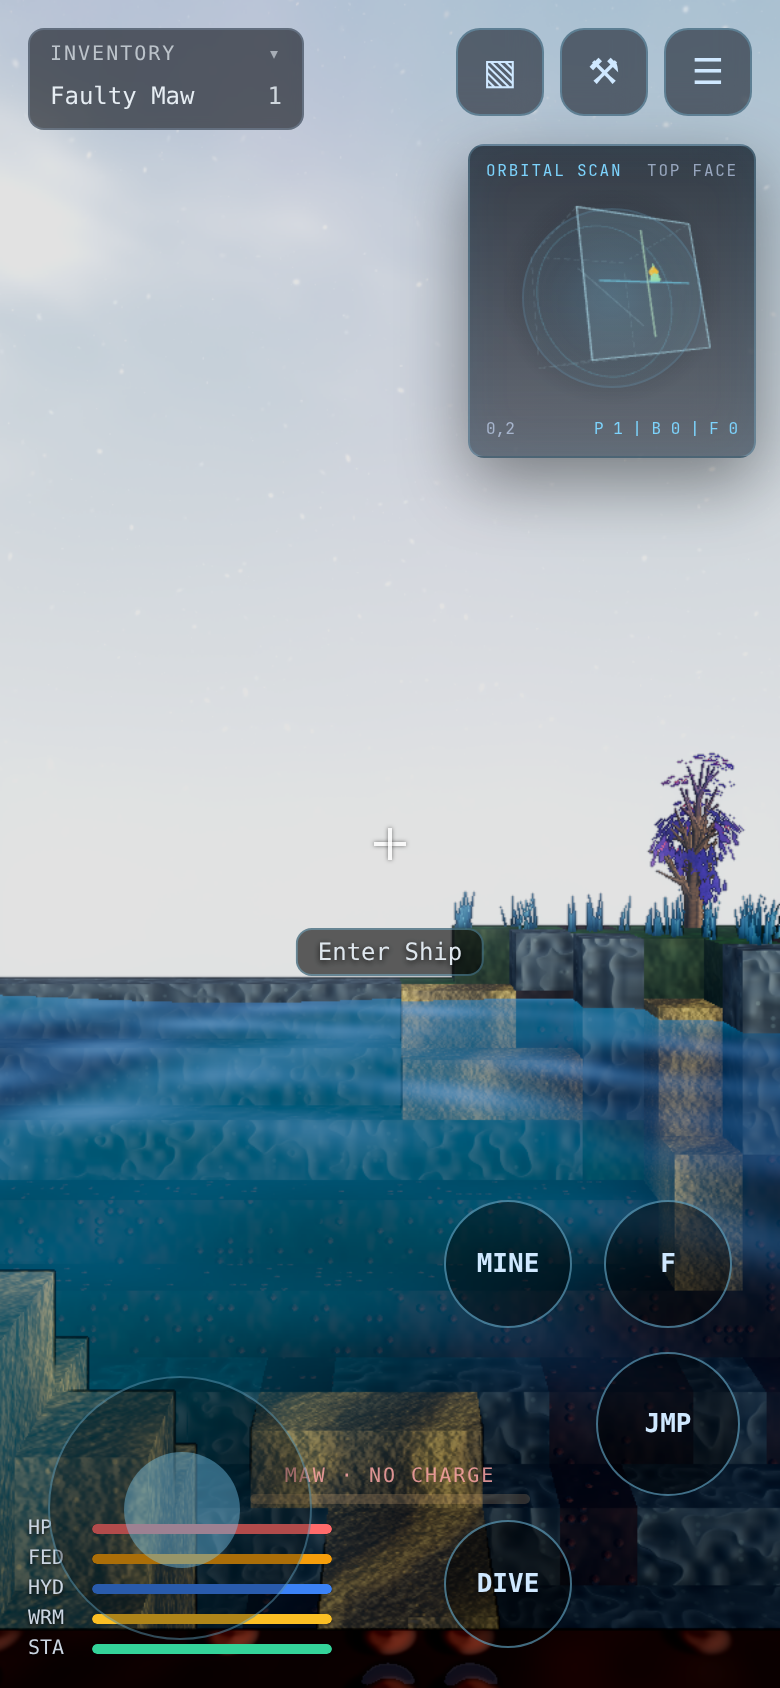
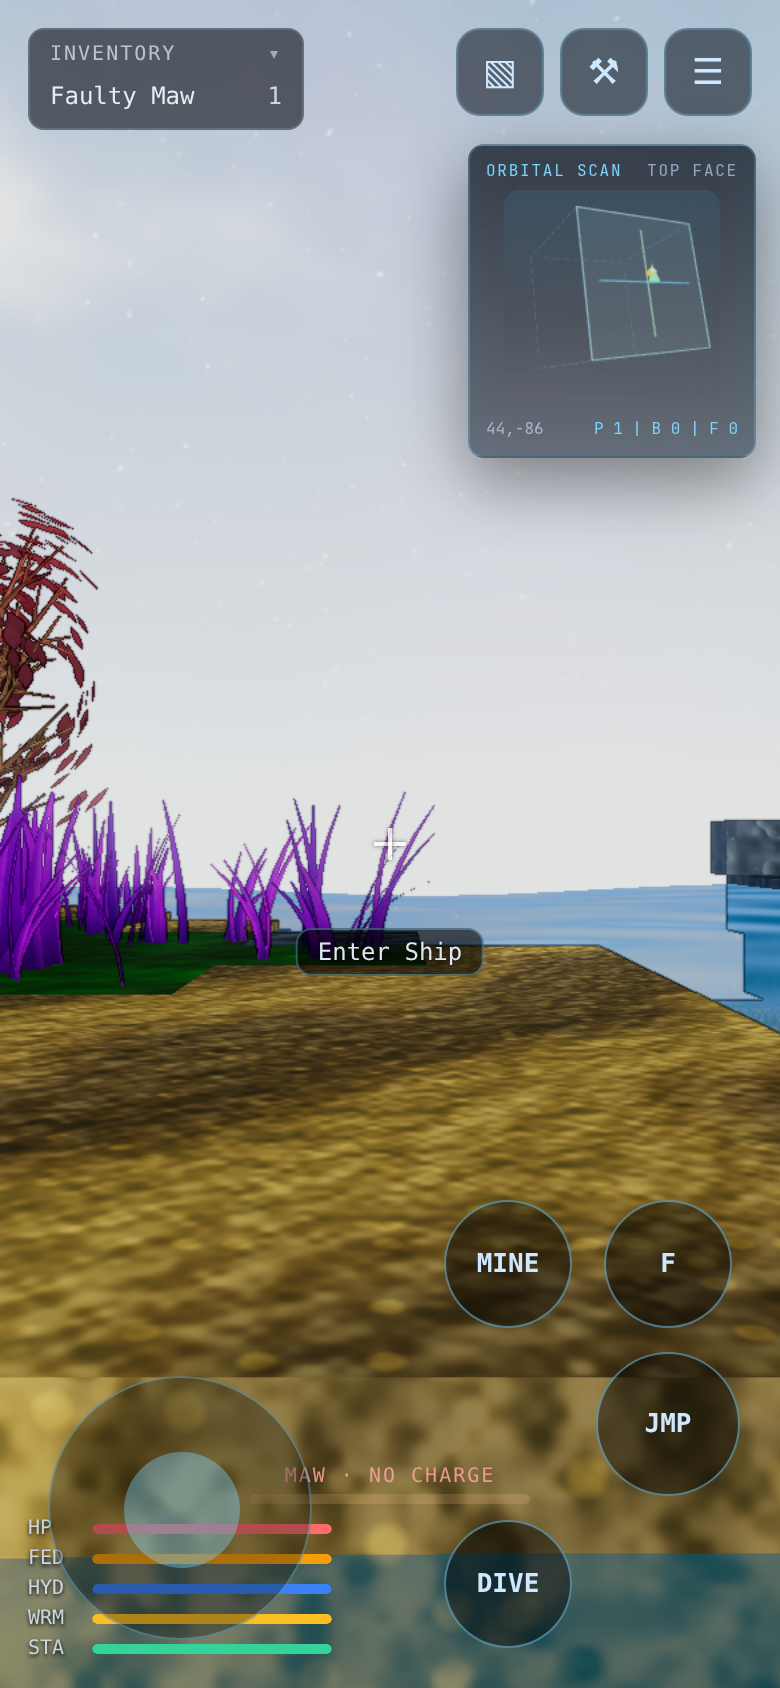
minimap

diff --git a/main/src/components/hud/OrbitalMinimap.tsx b/main/src/components/hud/OrbitalMinimap.tsx
@@ -128,7 +128,7 @@ const OrbitalMinimap: React.FC<OrbitalMinimapProps> = ({ coordinateLabel, worldI
         height: canvasSize,
         margin: '0 auto',
         borderRadius: 8,
-        background: 'radial-gradient(circle at 50% 48%, rgba(56,189,248,0.13), rgba(5,8,15,0.08) 58%, rgba(5,8,15,0) 72%)'
+        background: 'linear-gradient(180deg, rgba(56,189,248,0.10), rgba(5,8,15,0.04) 58%, rgba(5,8,15,0) 100%)'
       }}>
         <Canvas
           dpr={[1, 1.5]}
@@ -138,13 +138,6 @@ const OrbitalMinimap: React.FC<OrbitalMinimapProps> = ({ coordinateLabel, worldI
         >
           <OrbitalMinimapScene model={model} />
         </Canvas>
-        <div style={{
-          position: 'absolute',
-          inset: 9,
-          border: '1px solid rgba(125,211,252,0.16)',
-          borderRadius: '50%',
-          boxShadow: 'inset 0 0 18px rgba(125,211,252,0.10)'
-        }} />
       </div>
 
       <div style={{
@@ -173,7 +166,6 @@ const OrbitalMinimap: React.FC<OrbitalMinimapProps> = ({ coordinateLabel, worldI
 
 const OrbitalMinimapScene: React.FC<{ model: OrbitalMinimapModel }> = ({ model }) => {
   const rig = useRef<THREE.Group>(null);
-  const sweep = useRef<THREE.Mesh>(null);
   const targetMapQuaternion = useMemo(() => mapQuaternionForFace(model.local), [model.local.face]);
 
   useFrame((_, dt) => {
@@ -181,7 +173,6 @@ const OrbitalMinimapScene: React.FC<{ model: OrbitalMinimapModel }> = ({ model }
       const blend = 1 - Math.exp(-dt * 7.5);
       rig.current.quaternion.slerp(targetMapQuaternion, blend);
     }
-    if (sweep.current) sweep.current.rotation.y += dt * 1.28;
   });
 
   return (
@@ -191,14 +182,6 @@ const OrbitalMinimapScene: React.FC<{ model: OrbitalMinimapModel }> = ({ model }
       <pointLight position={[2.8, 3, 3.2]} intensity={9} color="#7dd3fc" />
       <pointLight position={[-2.2, -1.8, 2.4]} intensity={3} color="#f59e0b" />
       <group ref={rig}>
-        <mesh rotation={[Math.PI / 2, 0, 0]}>
-          <torusGeometry args={[FRAME_HALF_SIZE * 1.28, 0.006, 8, 112]} />
-          <meshBasicMaterial color="#38bdf8" transparent opacity={0.34} />
-        </mesh>
-        <mesh ref={sweep}>
-          <boxGeometry args={[FRAME_HALF_SIZE * 1.52, 0.008, 0.008]} />
-          <meshBasicMaterial color="#7dd3fc" transparent opacity={0.38} depthWrite={false} />
-        </mesh>
         <ShardFrame local={model.local} />
         {model.markers.map(marker => <OrbitalMarkerMesh key={marker.id} marker={marker} />)}
         <LocalMarkerMesh local={model.local} />

diff --git a/.codex/design-runs/2026-06-25-3d-minimap/screenshot-report.md b/.codex/design-runs/2026-06-25-3d-minimap/screenshot-report.md
@@ -7,8 +7,8 @@ Preview URL: http://127.0.0.1:5173/
 - Screenshot: `screenshots/desktop-1440x900.png`
 - Minimap bounds: x 1236, y 72, width 190, height 196.140625
 - Canvas: 140 x 140
-- Lit pixels: 7368 then 7364
-- Animated hash: 1703608369 -> 3406633699
+- Lit pixels: 7146 then 7146
+- Idle hash: 1663600464 -> 1663600464
 - Console errors: none
 - Result: pass
 
@@ -17,8 +17,8 @@ Preview URL: http://127.0.0.1:5173/
 - Screenshot: `screenshots/mobile-390x844.png`
 - Minimap bounds: x 234, y 72, width 144, height 156.796875
 - Canvas: 162 x 162
-- Lit pixels: 9805 then 9809
-- Animated hash: 3030963801 -> 1519187339
+- Lit pixels: 9532 then 9532
+- Idle hash: 2981226503 -> 2981226503
 - Console errors: none
 - Result: pass
 
@@ -26,8 +26,9 @@ Preview URL: http://127.0.0.1:5173/
 
 - Desktop placement clears inventory, vitals, center prompts, and top-right buttons.
 - Mobile placement clears inventory and touch controls, with the panel directly below the top action buttons.
-- Canvas-pixel checks confirm the 3D minimap is not blank and is moving across frames.
+- Canvas-pixel checks confirm the 3D minimap is not blank in both viewports.
 - Active face label and face-local UV guide render in both viewports.
-- The minimap cube now holds a stable face orientation; scanner motion remains from the ring while heading changes are represented by the arrow.
+- The minimap cube now holds a stable face orientation; idle hashes are expected to match because the decorative scanner motion was removed.
 - The current face is caticorner and predominant; rear/connector edges are dashed and subordinate.
 - The minimap geometry now fits inside the panel with padding, and gameplay cube surface coordinates map to the visible face edge.
+- The circular scanner shell is gone; the HUD now presents the cube frame directly without the extra radar bubble.

diff --git a/.codex/design-runs/2026-06-25-3d-minimap/final-scorecard.md b/.codex/design-runs/2026-06-25-3d-minimap/final-scorecard.md
@@ -1,15 +1,15 @@
 # Final Scorecard
 
-Weighted score: 4.88 / 5
+Weighted score: 4.89 / 5
 
 ## Category Scores
 
 - Goal effectiveness: 4.92
-- Visual quality: 4.90
+- Visual quality: 4.92
 - Brand fit: 4.84
 - Spatial/layout fit: 4.90
 - Interaction safety: 4.80
-- Implementation fidelity: 4.86
+- Implementation fidelity: 4.87
 - Performance discipline: 4.76
 
 ## Gate Status

diff --git a/.codex/design-runs/2026-06-25-3d-minimap/critic-report.md b/.codex/design-runs/2026-06-25-3d-minimap/critic-report.md
@@ -4,7 +4,7 @@
 
 - Desktop and mobile screenshots reviewed after final polish.
 - WebGL pixel reads are nonblank in both viewports.
-- Pixel hashes differ across frames, confirming motion.
+- Pixel hashes are stable at idle, which is expected after removing the decorative scanner motion.
 - No console errors were captured.
 - Typecheck, tests, and production build passed.
 
@@ -22,7 +22,8 @@
 - The dashed scaffold is faint enough not to compete with the arrow; no extra solid cube fill is needed in this pass.
 - The caticorner angle is now based on discrete camera-relative 30/15 degree offsets, which reads less arbitrary than the previous vector-tuned angle.
 - The projection now maps planet-size surface coordinates to the minimap face edge, addressing the mismatch where the arrow looked too far from an imminent face boundary.
+- The removed circular scanner shell lowers visual clutter and keeps the minimap from reading as a generic radar bubble.
 
 ## Verdict
 
-Pass. The minimap is appealing, purposeful, game-specific, correctly framed, caticorner enough to read as 3D, and verifies as real animated 3D content.
+Pass. The minimap is appealing, purposeful, game-specific, correctly framed, caticorner enough to read as 3D, and verifies as real rendered 3D content.

diff --git a/.codex/design-runs/2026-06-25-3d-minimap/run-summary.md b/.codex/design-runs/2026-06-25-3d-minimap/run-summary.md
@@ -2,7 +2,7 @@
 
 ## Implemented
 
-- Added `OrbitalMinimap`, a compact R3F HUD canvas with a wire shard, scan ring, local heading marker, player/object pips, and count telemetry.
+- Added `OrbitalMinimap`, a compact R3F HUD canvas with a wire shard, local heading marker, player/object pips, and count telemetry.
 - Added `orbitalMinimapModel` helpers for projection, marker selection, dedupe, stale state, and marker caps.
 - Extended `shipProximity` to publish parked ship position for HUD consumers.
 - Wired the minimap into the live gameplay HUD in `App.tsx`.
@@ -14,6 +14,7 @@
 - Reduced minimap geometry size to prevent clipping inside the HUD panel.
 - Changed world-to-minimap projection so the gameplay cube surface maps to the visible minimap face edge.
 - Changed the face display to clean camera-relative 30 degree yaw / 15 degree pitch offsets.
+- Removed the decorative circular scanner shell so the minimap reads as a cube shard instead of a radar bubble.
 
 ## Verification
 
@@ -23,7 +24,7 @@
 - Browser screenshots: desktop and mobile pass
 - Canvas-pixel checks: desktop and mobile pass
 - Firebase deploy: pass
-- Live asset hash: `assets/index-C9UNr_J0.js` on `https://paravox-game.web.app/` and `https://paravoxia.com/`
+- Live asset hash: `assets/index-7iS5QdPq.js` on `https://paravox-game.web.app/` and `https://paravoxia.com/`
 
 ## Preview
 

diff --git a/.codex/design-runs/2026-06-25-3d-minimap/lessons-learned.md b/.codex/design-runs/2026-06-25-3d-minimap/lessons-learned.md
@@ -2,5 +2,6 @@
 
 - Playwright's locator click can hang on this landing screen under headless Chromium, likely around the pointer-lock/scroll action path. For reproducible visual QA, wait for the enabled Play button and trigger the DOM click with `page.evaluate`.
 - A small HUD-only R3F canvas can be pixel-verified reliably when `preserveDrawingBuffer` is enabled for that canvas.
+- Avoid requiring idle animation in HUD visual QA when stability is an intentional part of the interaction model.
 - Right-side placement works better for the current Paravoxia HUD because top-left inventory and bottom-left vitals already own the left side.
 - Marker caps and structure-cell dedupe should stay in pure helpers so future minimap additions can be tested without launching the game.